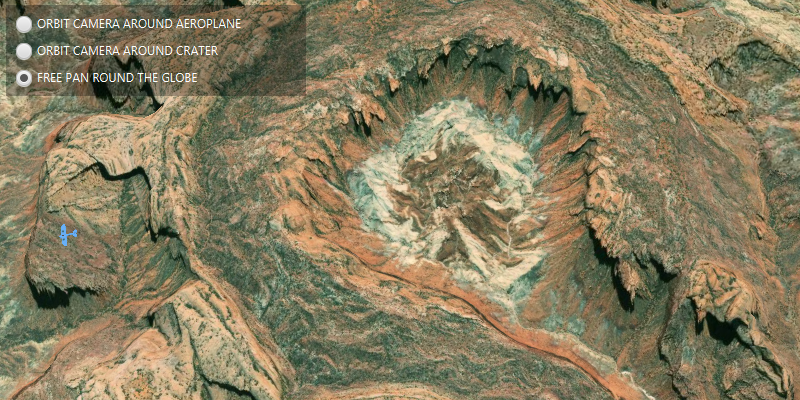
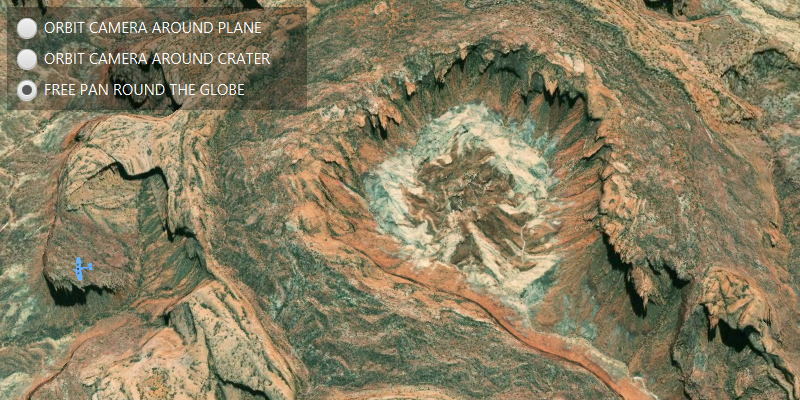
Camera controller US english update (#320)
* Replace "aeroplane" with "plane" in README and code

* Update image to show corrected spelling

* Fix grammar

diff --git a/src/main/java/com/esri/samples/scene/choose_camera_controller/ChooseCameraControllerSample.java b/src/main/java/com/esri/samples/scene/choose_camera_controller/ChooseCameraControllerSample.java
@@ -93,7 +93,7 @@ public class ChooseCameraControllerSample extends Application {
       GraphicsOverlay sceneGraphicsOverlay = new GraphicsOverlay();
       sceneView.getGraphicsOverlays().add(sceneGraphicsOverlay);
 
-      // create a graphic with a ModelSceneSymbol of an aeroplane to add to the scene
+      // create a graphic with a ModelSceneSymbol of a plane to add to the scene
       String modelURI = new File("./samples-data/bristol/Collada/Bristol.dae").getAbsolutePath();
       ModelSceneSymbol plane3DSymbol = new ModelSceneSymbol(modelURI, 1.0);
       plane3DSymbol.loadAsync();
@@ -106,10 +106,10 @@ public class ChooseCameraControllerSample extends Application {
       Camera camera = new Camera(38.459291, -109.937576, 5500, 150.0, 20.0, 0.0);
       sceneView.setViewpointCamera(camera);
 
-      // instantiate a new camera controller which orbits the aeroplane at a set distance
-      OrbitGeoElementCameraController orbitAeroplaneCameraController = new OrbitGeoElementCameraController(plane3D, 100.0);
-      orbitAeroplaneCameraController.setCameraPitchOffset(30);
-      orbitAeroplaneCameraController.setCameraHeadingOffset(150);
+      // instantiate a new camera controller which orbits the plane at a set distance
+      OrbitGeoElementCameraController orbitPlaneCameraController = new OrbitGeoElementCameraController(plane3D, 100.0);
+      orbitPlaneCameraController.setCameraPitchOffset(30);
+      orbitPlaneCameraController.setCameraHeadingOffset(150);
 
       // instantiate a new camera controller which orbits a target location
       Point locationPoint = new Point(-109.929589, 38.437304, 1700, SpatialReferences.getWgs84());
@@ -118,19 +118,19 @@ public class ChooseCameraControllerSample extends Application {
       orbitLocationCameraController.setCameraHeadingOffset(150);
 
       // create radio buttons for choosing camera controller
-      RadioButton orbitAeroplane = new RadioButton("ORBIT CAMERA AROUND AEROPLANE");
+      RadioButton orbitPlane = new RadioButton("ORBIT CAMERA AROUND PLANE");
       RadioButton orbitLocation = new RadioButton("ORBIT CAMERA AROUND CRATER");
       RadioButton globeCamera = new RadioButton("FREE PAN ROUND THE GLOBE");
       globeCamera.setSelected(true);
 
       // set the buttons to a toggle group
       ToggleGroup toggleGroup = new ToggleGroup();
-      orbitAeroplane.setToggleGroup(toggleGroup);
+      orbitPlane.setToggleGroup(toggleGroup);
       orbitLocation.setToggleGroup(toggleGroup);
       globeCamera.setToggleGroup(toggleGroup);
 
       // set the radio buttons to choose which camera controller is active
-      orbitAeroplane.setOnAction(event -> sceneView.setCameraController(orbitAeroplaneCameraController));
+      orbitPlane.setOnAction(event -> sceneView.setCameraController(orbitPlaneCameraController));
 
       orbitLocation.setOnAction(event -> sceneView.setCameraController(orbitLocationCameraController));
 
@@ -143,7 +143,7 @@ public class ChooseCameraControllerSample extends Application {
       controlsVBox.setMaxSize(300, 80);
       controlsVBox.getStyleClass().add("panel-region");
       // add radio buttons to the control panel
-      controlsVBox.getChildren().addAll(orbitAeroplane, orbitLocation, globeCamera);
+      controlsVBox.getChildren().addAll(orbitPlane, orbitLocation, globeCamera);
 
       // add scene view, label and control panel to the stack pane
       stackPane.getChildren().addAll(sceneView, controlsVBox);

diff --git a/src/main/java/com/esri/samples/scene/orbit_the_camera_around_an_object/README.md b/src/main/java/com/esri/samples/scene/orbit_the_camera_around_an_object/README.md
@@ -29,14 +29,14 @@
 
 <h2>How to use the sample</h2>
 
-<p> The sample loads with the camera orbiting an aeroplane model. The camera is preset with a restricted camera heading and pitch, and a limited minimum and maximum camera distance set from the plane. The position of the plane on the screen is also set just below center.</p>
+<p> The sample loads with the camera orbiting an plane model. The camera is preset with a restricted camera heading and pitch, and a limited minimum and maximum camera distance set from the plane. The position of the plane on the screen is also set just below center.</p>
 
 
 <p> Use the "Camera Heading" slider to adjust the camera heading. Select the "Allow camera distance interaction" checkbox to allow zooming in and out with the mouse/keyboard: when the checkbox is deselected the user will be unable to adjust with the camera distance.</p> 
 
 <p> Use the "Plane Pitch" slider to adjust the plane's pitch. When not in Cockpit view, the plane's pitch will change independently to that of the camera pitch.</p>
 
-<p>Use the "Cockpit view" button to offset and fix the camera into the cockpit of the aeroplane. Use the "Plane pitch" slider to control the pitch of aeroplane: the camera will follow the pitch of the plane in this mode.    In this view adjusting the camera distance is disabled. Hit the "Center view" button to exit cockpit view mode and fix the camera controller on the center of the plane.</p>                           
+<p>Use the "Cockpit view" button to offset and fix the camera into the cockpit of the plane. Use the "Plane pitch" slider to control the pitch of plane: the camera will follow the pitch of the plane in this mode.    In this view adjusting the camera distance is disabled. Hit the "Center view" button to exit cockpit view mode and fix the camera controller on the center of the plane.</p>                           
 
 <h2>How it works</h2>
 

diff --git a/src/main/java/com/esri/samples/scene/choose_camera_controller/README.md b/src/main/java/com/esri/samples/scene/choose_camera_controller/README.md
@@ -10,7 +10,7 @@
 
 <h2>How to use the sample</h2>
 
-<p> The application loads with the default globe camera controller. To rotate and fix the scene around the aeroplane, exit globe mode by choosing the "Orbit camera around aeroplane" option (i.e. camera will now be fixed to the aeroplane). Choose the "Orbit camera around crater" option to rotate and centre the scene around the location of the Upheaval Dome crater structure, or choose the "Free pan round the globe" option to return to default free navigation.</p>                                   
+<p> The application loads with the default globe camera controller. To rotate and fix the scene around the plane, exit globe mode by choosing the "Orbit camera around plane" option (i.e. camera will now be fixed to the plane). Choose the "Orbit camera around crater" option to rotate and centre the scene around the location of the Upheaval Dome crater structure, or choose the "Free pan round the globe" option to return to default free navigation.</p>                                   
 
 <h2>How it works</h2>
 
